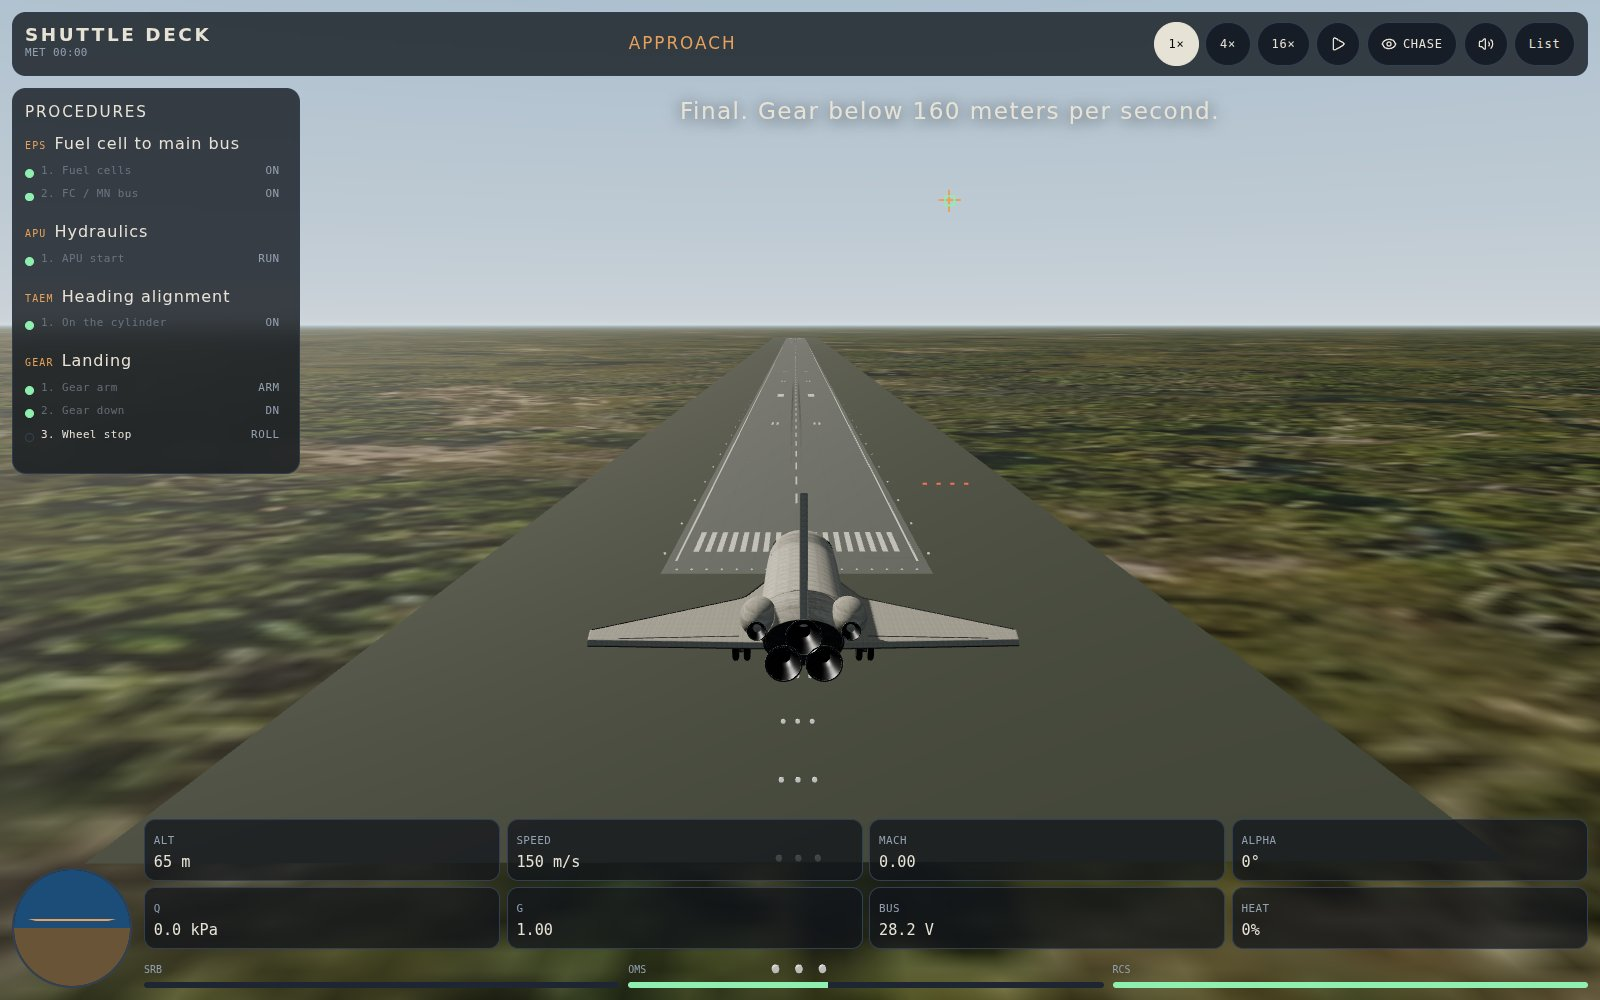
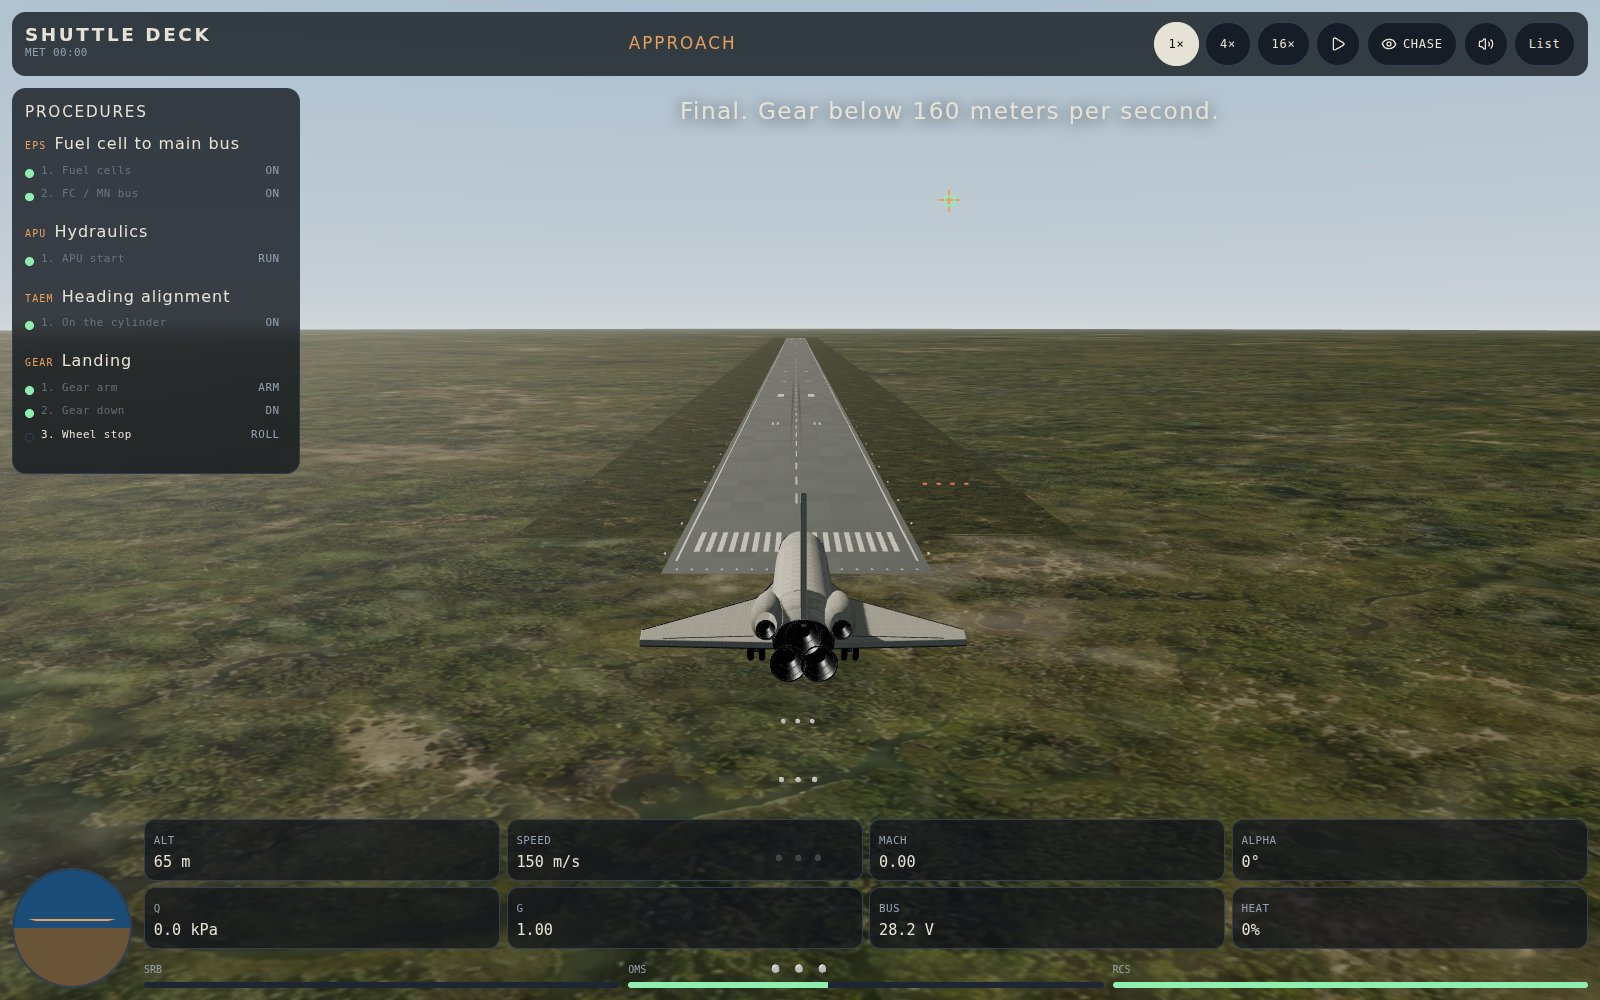
Refine approach surfaces and payload door radiators

diff --git a/web/deck/src/game/orbiter.tsx b/web/deck/src/game/orbiter.tsx
@@ -171,6 +171,12 @@ function EngineBell({ x, y, z = -10.4, size = 1 }: { x: number; y: number; z?: n
         <circleGeometry args={[0.33, 24]} />
         <meshStandardMaterial color="#101214" roughness={0.95} side={THREE.DoubleSide} />
       </mesh>
+      {[ [0.5, 0.6], [0.72, 1.02] ].map(([radius, along]) => (
+        <mesh key={along} position={[0, along, 0]} rotation={[Math.PI / 2, 0, 0]}>
+          <torusGeometry args={[radius, 0.014, 6, 32]} />
+          <meshStandardMaterial color="#888e90" metalness={0.78} roughness={0.44} />
+        </mesh>
+      ))}
       <mesh position={[0, 1.38, 0]} rotation={[Math.PI / 2, 0, 0]}>
         <torusGeometry args={[0.85, 0.036, 8, 32]} />
         <meshStandardMaterial color="#a1a4a5" metalness={0.88} roughness={0.3} />
@@ -256,6 +262,11 @@ export function Orbiter() {
     return {
       doorL: windowGeometry(Math.PI / 2 + 0.006, Math.PI * 5 / 6 + 0.02, -6.91, 4.51, 0.025, 24).translate(1.92, -1.16, 1.2),
       doorR: windowGeometry(Math.PI / 6 - 0.02, Math.PI / 2 - 0.006, -6.91, 4.51, 0.025, 24).translate(-1.92, -1.16, 1.2),
+      // Four radiator panels on each door; fitted to our existing estimated bay.
+      radiatorsL: Array.from({ length: 4 }, (_, i) => windowGeometry(Math.PI / 2 + 0.08, Math.PI * 5 / 6 - 0.07,
+        -6.72 + i * 2.8, -4.05 + i * 2.8, -0.025, 16).translate(1.92, -1.16, 1.2)),
+      radiatorsR: Array.from({ length: 4 }, (_, i) => windowGeometry(Math.PI / 6 + 0.07, Math.PI / 2 - 0.08,
+        -6.72 + i * 2.8, -4.05 + i * 2.8, -0.025, 16).translate(-1.92, -1.16, 1.2)),
       pod: omsPodGeometry(), body: fuselageGeometry(), leftWing: sweptWing(-1), rightWing: sweptWing(1), fin: finGeometry(), windows,
       tank: new THREE.LatheGeometry(tankProfile, 48),
       wingEdges: [-1, 1].map((side) => new THREE.TubeGeometry(new THREE.CatmullRomCurve3([
@@ -266,6 +277,7 @@ export function Orbiter() {
   }, []);
   useEffect(() => () => {
     geometry.pod.dispose(); geometry.doorL.dispose(); geometry.doorR.dispose(); geometry.body.dispose(); geometry.leftWing.dispose(); geometry.rightWing.dispose(); geometry.fin.dispose(); geometry.tank.dispose(); geometry.rudderSeam.dispose();
+    [...geometry.radiatorsL, ...geometry.radiatorsR].forEach(g => g.dispose());
     geometry.wingEdges.forEach((g) => g.dispose());
     geometry.windows.forEach(({ frame, glass }) => { frame.dispose(); glass.dispose(); });
   }, [geometry]);
@@ -346,9 +358,15 @@ export function Orbiter() {
         </mesh>
       ))}
       <group name="bay-left" ref={bayL} position={[-1.92, 1.16, -1.2]}>
+        {geometry.radiatorsL.map((g,i) => <mesh key={i} name={`port-radiator-${i}`} geometry={g}>
+          <meshStandardMaterial color="#d9ddd9" metalness={0.28} roughness={0.38} side={THREE.DoubleSide} />
+        </mesh>)}
         <mesh geometry={geometry.doorL} castShadow><meshStandardMaterial {...blanket} color="#ebe9e2" side={THREE.DoubleSide} /></mesh>
       </group>
       <group name="bay-right" ref={bayR} position={[1.92, 1.16, -1.2]}>
+        {geometry.radiatorsR.map((g,i) => <mesh key={i} name={`starboard-radiator-${i}`} geometry={g}>
+          <meshStandardMaterial color="#d9ddd9" metalness={0.28} roughness={0.38} side={THREE.DoubleSide} />
+        </mesh>)}
         <mesh geometry={geometry.doorR} castShadow><meshStandardMaterial {...blanket} color="#ebe9e2" side={THREE.DoubleSide} /></mesh>
       </group>
       <group name="landing-gear" ref={gear} visible={false}>

diff --git a/web/deck/src/game/ground-materials.ts b/web/deck/src/game/ground-materials.ts
@@ -1,0 +1,43 @@
+import * as THREE from "three";
+
+/** Code-native surface detail; stable UVs avoid swimming as the world recenters. */
+export function terrainMaterial(map: THREE.Texture) {
+  const material = new THREE.MeshStandardMaterial({ map, roughness: 1 });
+  material.onBeforeCompile = shader => {
+    shader.fragmentShader = shader.fragmentShader.replace('#include <map_fragment>', `
+      #ifdef USE_MAP
+        vec2 uv = vMapUv;
+        vec4 broad = texture2D(map, uv);
+        // Different scale/orientation breaks the single aerial-image repeat near the ground.
+        vec4 detail = texture2D(map, vec2(-uv.y, uv.x) * 9.0 + vec2(0.37, 0.61));
+        float nearMix = 1.0 - smoothstep(600.0, 6500.0, length(vViewPosition));
+        diffuseColor *= mix(broad, detail, nearMix * 0.55);
+      #endif
+    `);
+  };
+  material.customProgramCacheKey = () => 'wetland-multiscale-v1';
+  return material;
+}
+
+/** Subtle concrete aggregate and slab variation, not a generated texture asset. */
+export function pavementMaterial(bumpMap: THREE.Texture) {
+  const material = new THREE.MeshStandardMaterial({ color: '#777b76', roughness: 0.95,
+    bumpMap, bumpScale: 0.018, polygonOffset: true, polygonOffsetFactor: -2, polygonOffsetUnits: -2 });
+  material.onBeforeCompile = shader => {
+    shader.vertexShader = 'varying vec2 vPavementUv;\n' + shader.vertexShader;
+    shader.vertexShader = shader.vertexShader.replace('#include <uv_vertex>', '#include <uv_vertex>\n vPavementUv = uv;');
+    shader.fragmentShader = 'varying vec2 vPavementUv;\n' + shader.fragmentShader;
+    shader.fragmentShader = shader.fragmentShader.replace('#include <color_fragment>', `
+      #include <color_fragment>
+      vec2 metres = vPavementUv * vec2(5200.0, 90.0);
+      vec2 slab = floor(metres / vec2(25.0, 15.0));
+      float variation = fract(sin(dot(slab, vec2(12.9898,78.233))) * 43758.5453);
+      // Fade subpixel grain rather than aliasing at grazing approach angles.
+      float footprint = max(length(dFdx(metres)), length(dFdy(metres)));
+      float grain = sin(metres.x * 43.0) * sin(metres.y * 39.0);
+      diffuseColor.rgb *= 0.94 + variation * 0.12 + grain * 0.035 * (1.0 - smoothstep(0.02, 0.15, footprint));
+    `);
+  };
+  material.customProgramCacheKey = () => 'runway-aggregate-v1';
+  return material;
+}

diff --git a/web/deck/src/game/runway.tsx b/web/deck/src/game/runway.tsx
@@ -2,6 +2,8 @@ import { useEffect, useMemo } from "react";
 import * as THREE from "three";
 import { useSurfaceMaterial } from "./materials";
 
+import { pavementMaterial } from "./ground-materials";
+
 type Strip = [number, number, number, number]; // x, z, length, width
 
 /** Painted geometry remains crisp at grazing angles; coordinates retain the flight model's runway. */
@@ -45,8 +47,14 @@ function RunwayLights() {
   return <primitive object={lamps} />;
 }
 
-export function Runway() {
+export function Runway({ terrainMap }: { terrainMap: THREE.Texture }) {
   const pavement = useSurfaceMaterial("panel", [80, 2]);
+  const vergeMap = useMemo(() => {
+    const map = terrainMap.clone(); map.repeat.set(28, 1.1); map.needsUpdate = true; return map;
+  }, [terrainMap]);
+  useEffect(() => () => vergeMap.dispose(), [vergeMap]);
+  const concrete = useMemo(() => pavementMaterial(pavement.bumpMap), [pavement.bumpMap]);
+  useEffect(() => () => concrete.dispose(), [concrete]);
   const detail = useMemo(() => {
     const paint: Strip[] = [[2200, -42, 5160, 0.8], [2200, 42, 5160, 0.8]];
     for (let x = -240; x < 4630; x += 60) paint.push([x, 0, 30, 0.9]);
@@ -68,11 +76,11 @@ export function Runway() {
   }, []);
   return <group name="runway">
     <mesh rotation={[-Math.PI / 2, 0, 0]} position={[2200, 0.12, 0]} receiveShadow>
-      <planeGeometry args={[5600, 220]} /><meshStandardMaterial color="#5a6053" roughness={1} polygonOffset polygonOffsetFactor={-1} polygonOffsetUnits={-1} />
+      <planeGeometry args={[5600, 220]} /><meshStandardMaterial color="#c3c7aa" map={vergeMap} roughness={1} polygonOffset polygonOffsetFactor={-1} polygonOffsetUnits={-1} />
     </mesh>
     <mesh rotation={[-Math.PI / 2, 0, 0]} position={[2200, 0.22, 0]} receiveShadow>
       <planeGeometry args={[5200, 90]} />
-      <meshStandardMaterial color="#777b76" roughness={0.95} polygonOffset polygonOffsetFactor={-2} polygonOffsetUnits={-2} bumpMap={pavement.bumpMap} bumpScale={0.018} />
+      <primitive object={concrete} attach="material" />
     </mesh>
     <Strips strips={detail.joints} color="#42463f" y={0.226} opacity={0.28} />
     <Strips strips={detail.paint} color="#e5e2d5" y={0.23} />

diff --git a/web/deck/src/game/scene.tsx b/web/deck/src/game/scene.tsx
@@ -4,6 +4,7 @@ import { Component, Suspense, useEffect, useMemo, useRef, type ReactNode } from 
 import * as THREE from "three";
 import { CabinInterior } from "@/game/cabin";
 import { Orbiter } from "@/game/orbiter";
+import { terrainMaterial } from "./ground-materials";
 import { Runway } from "./runway";
 import earthUrl from "@/assets/visuals/earth-day-2048.jpg";
 import cloudsUrl from "@/assets/visuals/earth-clouds-2048.jpg";
@@ -104,6 +105,8 @@ function World() {
   const [map, cloudsMap] = useEarthMaps();
   const starField = useRef<THREE.Group>(null);
   const fieldMap = useFieldMap();
+  const fieldMaterial = useMemo(() => terrainMaterial(fieldMap), [fieldMap]);
+  useEffect(() => () => fieldMaterial.dispose(), [fieldMaterial]);
   const space = useMemo(() => new THREE.Color("#07090d"), []);
   const sky = useMemo(() => new THREE.Color().setRGB(0.60, 0.70, 0.77), []);
   const haze = useMemo(() => new THREE.Fog(sky, 2200, 26000), [sky]);
@@ -254,13 +257,13 @@ function World() {
       <group ref={ground}>
         <mesh rotation={[-Math.PI / 2, 0, 0]} position={[0, 0, 0]} receiveShadow>
           <planeGeometry args={[80000, 80000]} />
-          <meshStandardMaterial map={fieldMap} roughness={1} />
+          <primitive object={fieldMaterial} attach="material" />
         </mesh>
         <mesh ref={blob} rotation={[-Math.PI / 2, 0, 0]} position={[0, 0.35, 0]}>
           <circleGeometry args={[22, 28]} />
           <meshBasicMaterial color="#06140f" transparent opacity={0} depthWrite={false} />
         </mesh>
-        <Runway />
+        <Runway terrainMap={fieldMap} />
         {Array.from({ length: 8 }, (_, i) => {
           const t = ((i + 1) / 9) * Math.PI;
           const x = HAC.cx - Math.sin(t) * HAC.r;

diff --git a/web/deck/VISUAL_ASSETS.md b/web/deck/VISUAL_ASSETS.md
@@ -104,3 +104,29 @@ Next visual work should use sourced orbiter dimensions/UVs and a calibrated
 cockpit, replace the illustrative runway and repeated terrain with a sourced landing-site model, and add a true
 height/roughness texture set. The 2K Earth maps improve geography but do not
 provide close-range orbital ground detail. Exhaust remains a shader approximation.
+
+## Approach and exterior detail follow-ups
+
+The terrain material blends the existing aerial image at two scales, with a
+rotated close-range sample that fades toward the broad view with distance.
+The runway verge now uses texture repeats matched to its long, narrow footprint.
+Concrete has subtle deterministic slab variation and fine aggregate; subpixel
+grain fades to avoid high-frequency aliasing. These are code-native shader
+changes using existing assets. The site remains illustrative and is not a
+surveyed Kennedy landing facility. Review: [approach](review/runway.jpg).
+
+Each payload door now carries four separate smooth radiator surfaces. The count
+and inside-door placement follow NASA's
+[STS-115 radiator investigation](https://ntrs.nasa.gov/citations/20070038939)
+and [Shuttle overview](https://www.nasa.gov/reference/the-space-shuttle/).
+Panel curvature, finish and size are fitted estimates for this model. The forward
+radiators do not independently deploy; they follow the existing door hinge.
+Engine bells also have subtle circumferential hardware bands, an artistic
+geometry detail. The approved tile image is unchanged.
+
+Review: [open bay](review/payload-radiators.jpg) and
+[closed bay](review/payload-closed.jpg). Browser checks counted eight attached
+panels, verified opening and closure, and rendered the approach shaders without
+browser errors. Production build/TypeScript and the existing exhaust-state tests
+pass. These checks do not establish thermal-system behavior or historical
+geometric accuracy.
